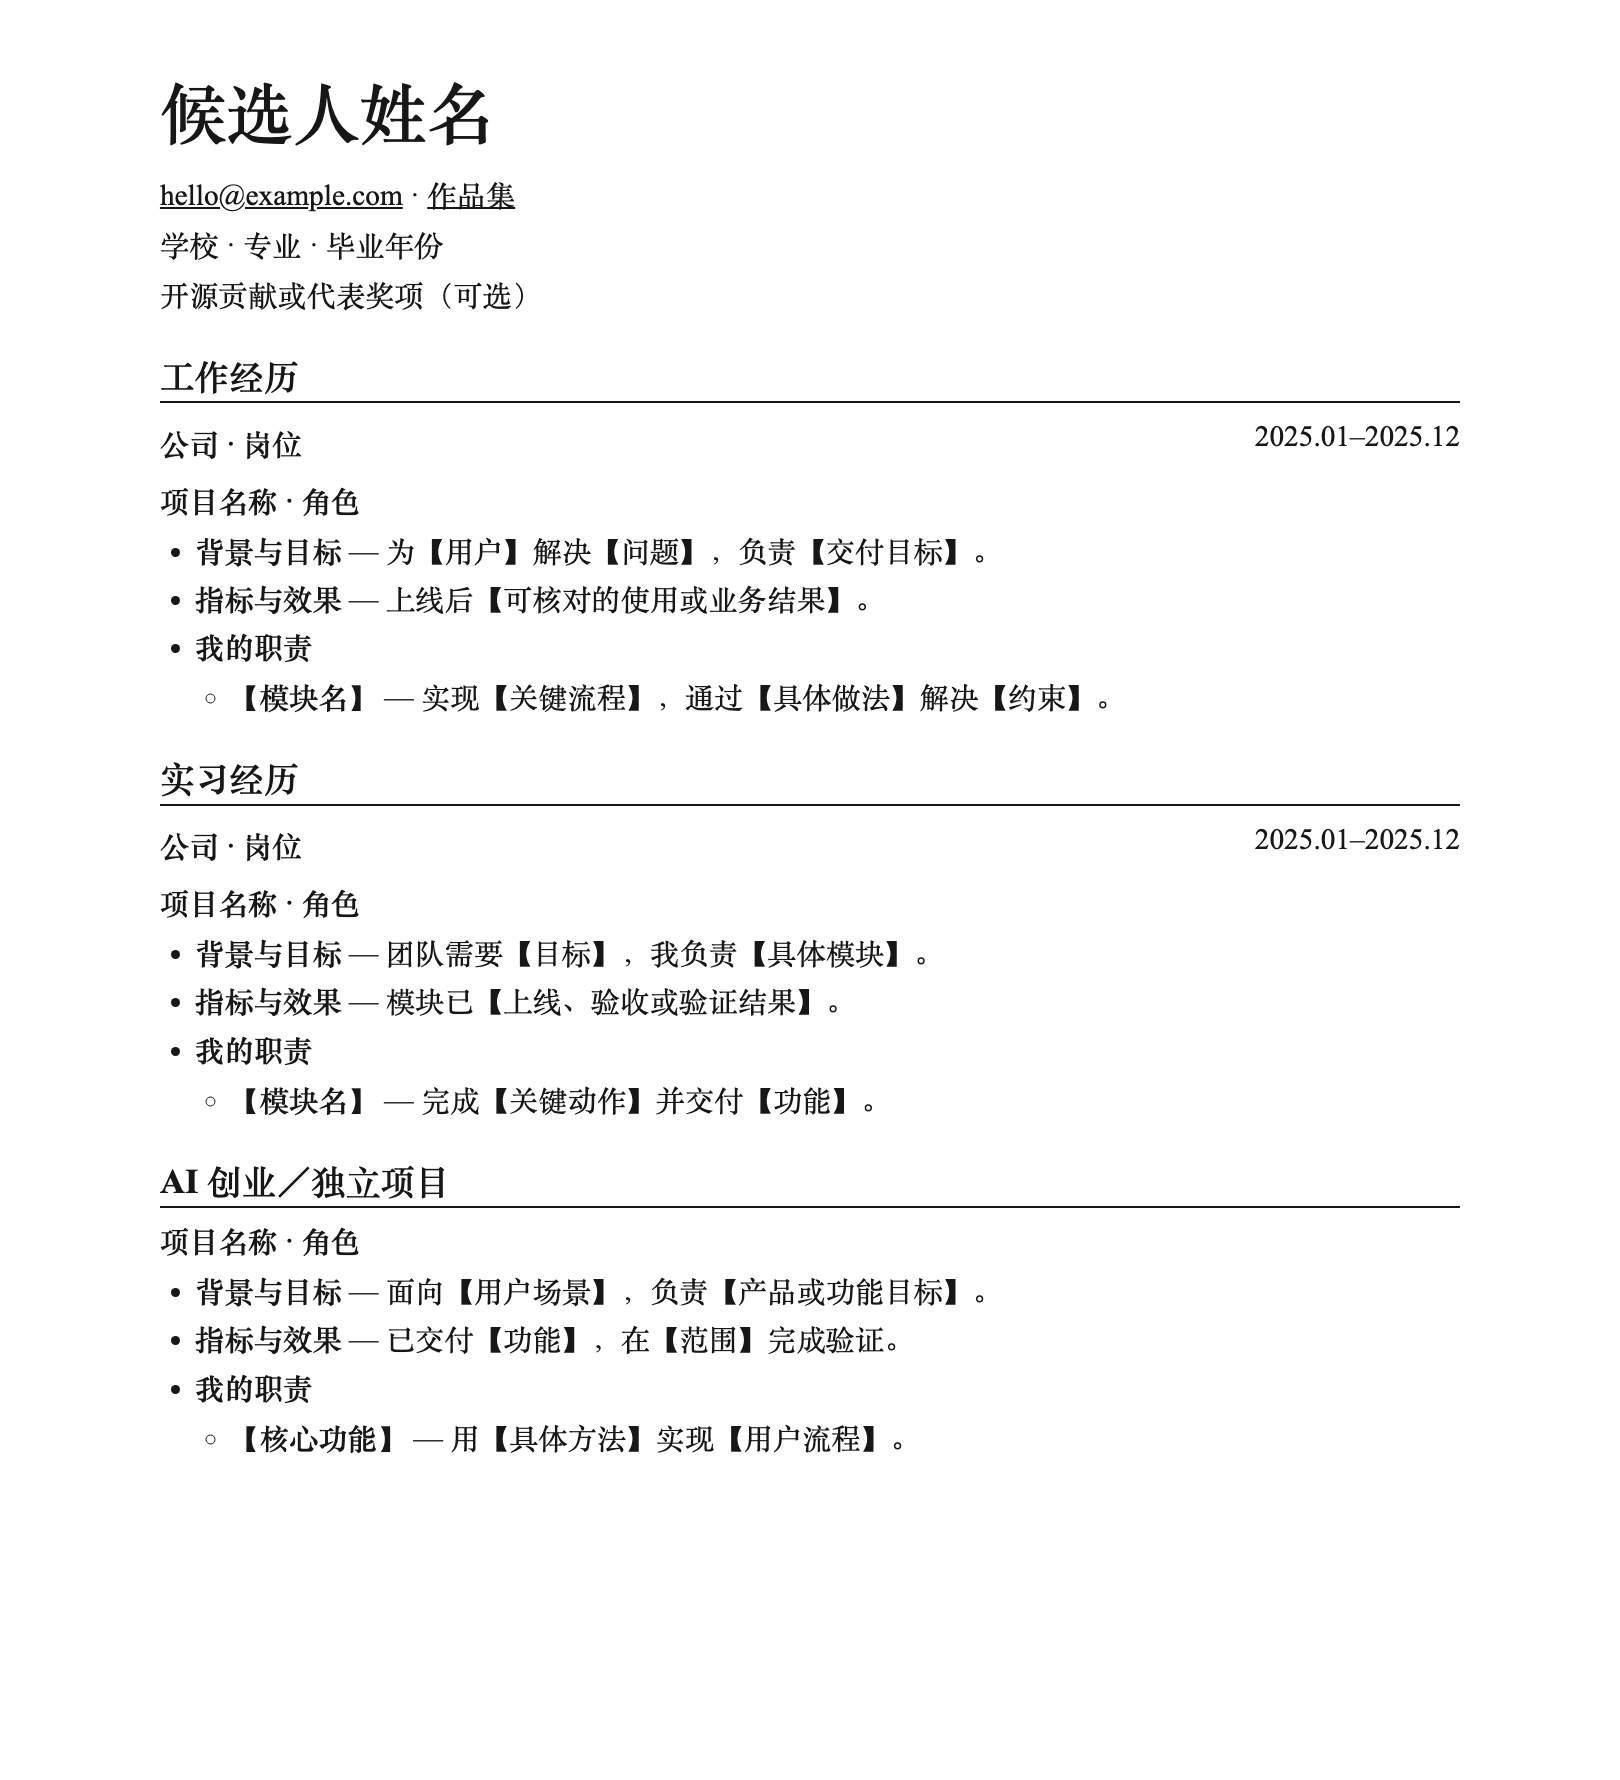
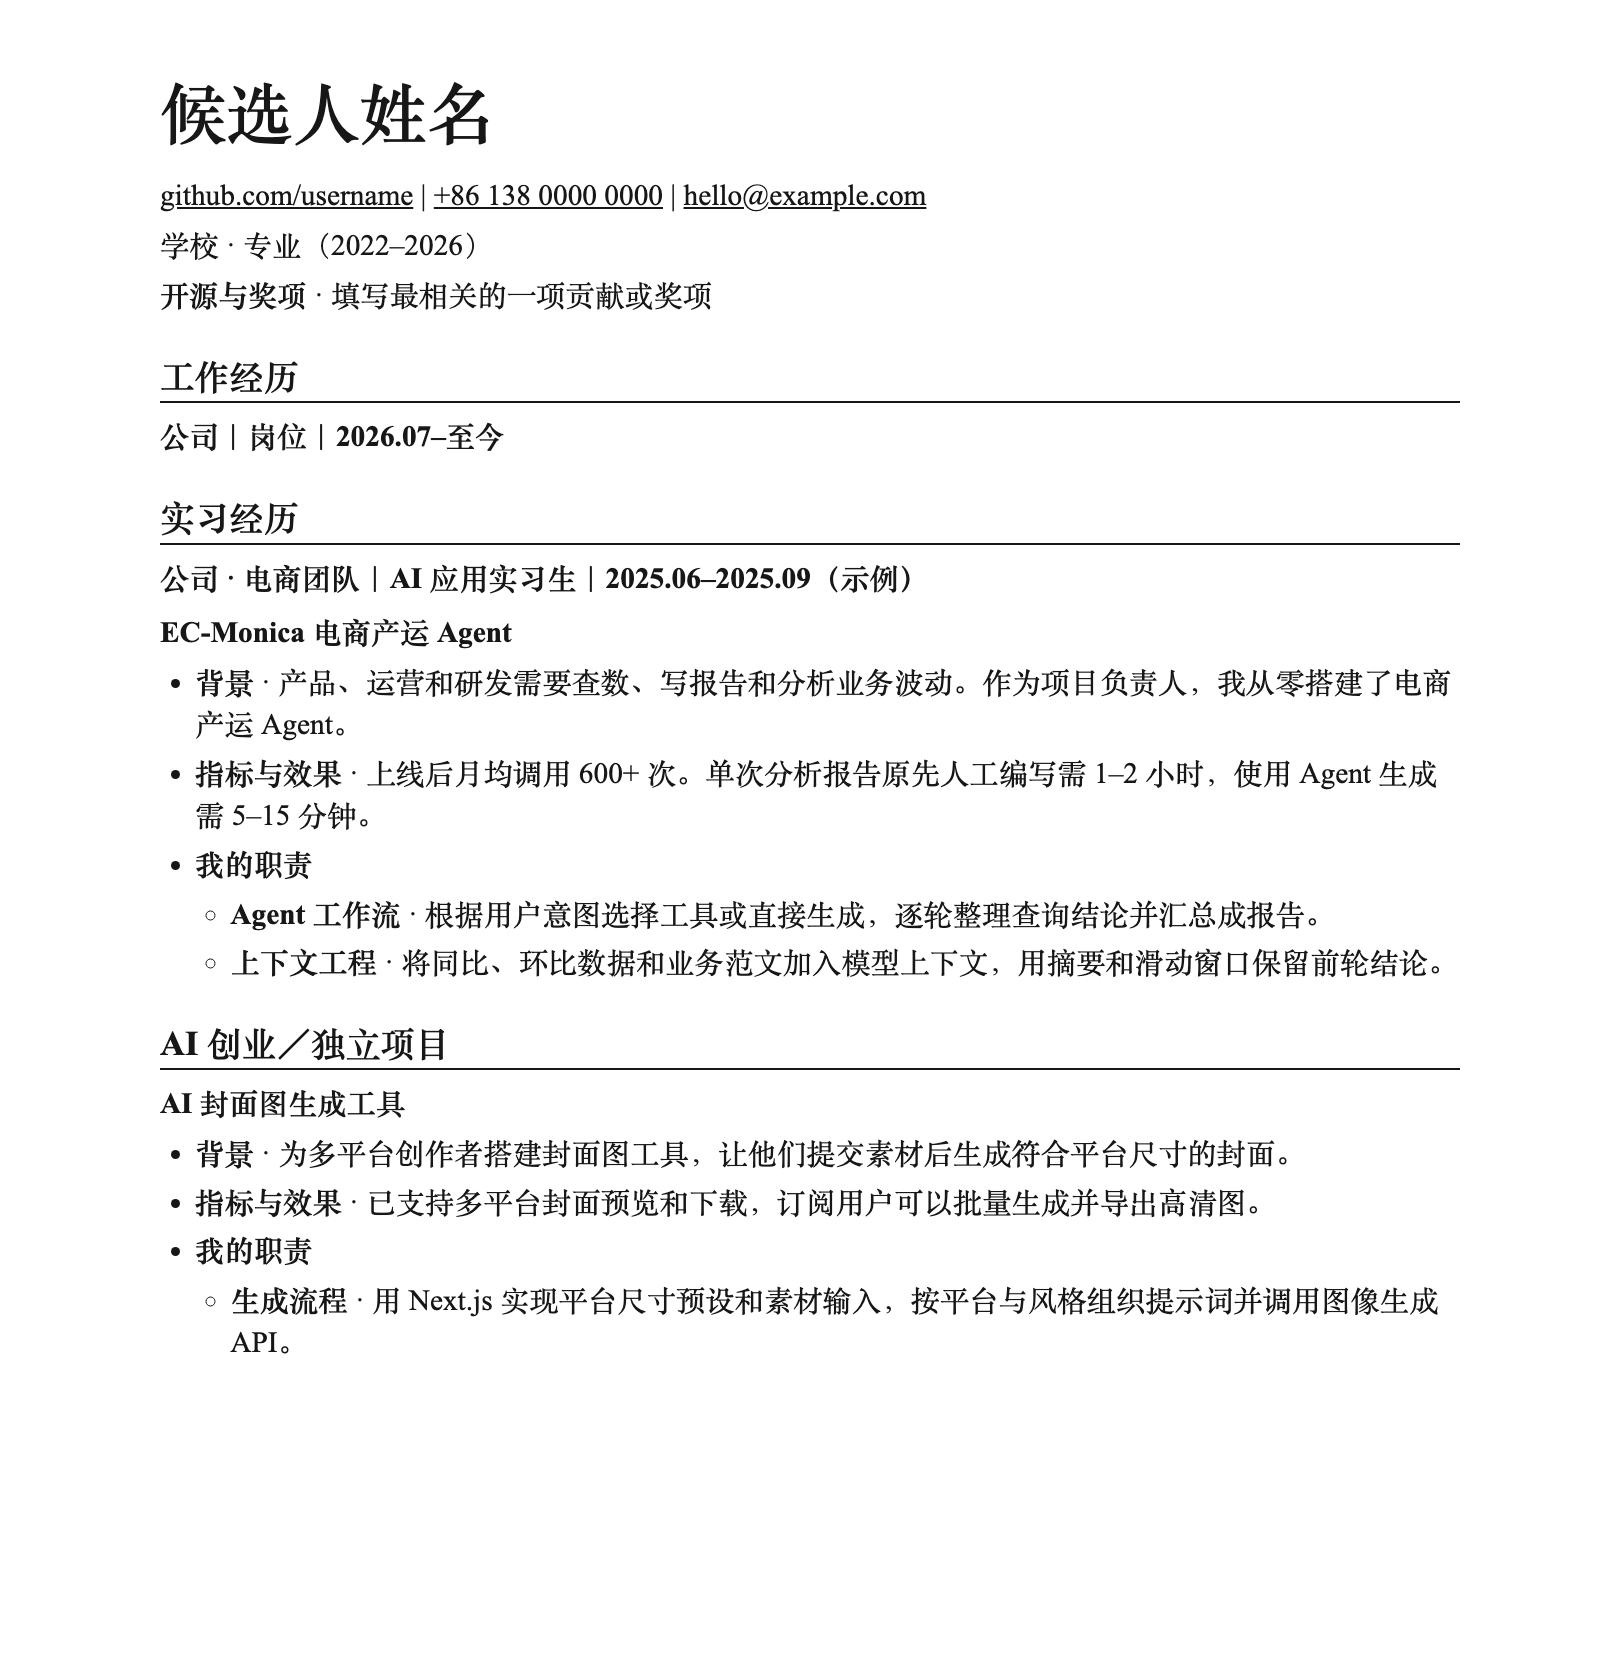
Model HTML resume markup on the original resume hierarchy

Changed region(s): [[0.0926, 0.031, 0.8951, 0.8357], [0.7716, 0.2167, 0.8951, 0.2476]]

diff --git a/README.en.md b/README.en.md
@@ -100,11 +100,14 @@ Copy the code into `resume.html`, open it in a browser, and use the print menu t
     ul { margin: .25em 0; padding-inline-start: 1.2em; }
     li { margin: .2em 0; }
     a { color: inherit; }
-    time { white-space: nowrap; }
-    .entry-heading { display: flex; justify-content: space-between; flex-wrap: wrap; gap: .25em 1em; }
+    .contact { overflow-wrap: anywhere; }
+    .resume-company-heading { margin: .4em 0; }
+    .resume-project { margin: .4em 0 .6em; }
+    .resume-project h4 { margin: .2em 0; font-size: 11pt; }
+    ul ul { list-style-type: circle; }
     @media print {
       body { max-width: none; margin: 0; padding: 0; }
-      h2, h3 { break-after: avoid; }
+      h2, h3, h4 { break-after: avoid; }
       li { break-inside: avoid; }
     }
   </style>
@@ -112,52 +115,51 @@ Copy the code into `resume.html`, open it in a browser, and use the print menu t
 <body>
   <header>
     <h1>Your Name</h1>
-    <p><a href="mailto:hello@example.com">hello@example.com</a> ·
-       <a href="https://example.com">Portfolio</a></p>
-    <p>University · Degree · Graduation year</p>
-    <p>Selected open-source contribution or award</p>
+    <p class="contact"><a href="https://github.com/username">github.com/username</a> |
+      <a href="tel:+12025550101">+1 202 555 0101</a> |
+      <a href="mailto:hello@example.com">hello@example.com</a></p>
+    <p>University · Degree (2022–2026)</p>
+    <p><strong>Open Source &amp; Awards</strong> · Add one relevant contribution or award</p>
   </header>
   <main>
     <section>
       <h2>Work Experience</h2>
-      <div class="entry-heading">
-        <h3>Company · Role</h3>
-        <span><time datetime="2025-01">2025.01</time>–<time datetime="2025-12">2025.12</time></span>
-      </div>
-      <p><strong>Project · Your role</strong></p>
-      <ul>
-        <li><strong>Context and goal</strong> — Addressed [problem] for [users] and owned [deliverable].</li>
-        <li><strong>Impact</strong> — After launch, [verified usage or business outcome].</li>
-        <li><strong>My contributions</strong>
-          <ul><li><strong>[Module]</strong> — Implemented [workflow] using [method] to address [constraint].</li></ul>
-        </li>
-      </ul>
+      <h3 class="resume-company-heading">Company | Role | Jul 2026–Present</h3>
+      <!-- Copy a resume-project block below when adding work projects. -->
     </section>
+
     <section>
       <h2>Internships</h2>
-      <div class="entry-heading">
-        <h3>Company · Role</h3>
-        <span><time datetime="2025-01">2025.01</time>–<time datetime="2025-12">2025.12</time></span>
-      </div>
-      <p><strong>Project · Your role</strong></p>
-      <ul>
-        <li><strong>Context and goal</strong> — The team needed [goal]. I owned [module].</li>
-        <li><strong>Impact</strong> — The module [shipped, passed acceptance, or produced a finding].</li>
-        <li><strong>My contributions</strong>
-          <ul><li><strong>[Module]</strong> — Completed [action] and delivered [feature].</li></ul>
-        </li>
-      </ul>
+      <h3 class="resume-company-heading">Company · E-commerce Team | AI Application Intern | Jun–Sep 2025 (example)</h3>
+      <article class="resume-project">
+        <h4>EC-Monica · E-commerce Operations Agent</h4>
+        <ul>
+          <li><strong>Context</strong> · Product, operations, and engineering teams needed to query data, write reports, and investigate metric changes. I owned the agent from design through launch.</li>
+          <li><strong>Impact</strong> · The agent averaged 600+ calls per month. A report took 1–2 hours to write manually and 5–15 minutes to generate with the agent.</li>
+          <li><strong>My contributions</strong>
+            <ul>
+            <li><strong>Agent workflow</strong> · Routed requests to tools or direct generation and assembled intermediate findings into a report.</li>
+            <li><strong>Context engineering</strong> · Added year-over-year and period-over-period metrics and report examples. Carried findings forward with summaries and a sliding window.</li>
+            </ul>
+          </li>
+        </ul>
+      </article>
     </section>
+
     <section>
       <h2>Independent AI Projects</h2>
-      <h3>Project · Your role</h3>
-      <ul>
-        <li><strong>Context and goal</strong> — Built [product capability] for [users and scenario].</li>
-        <li><strong>Impact</strong> — Delivered [feature] and validated it in [scope].</li>
-        <li><strong>My contributions</strong>
-          <ul><li><strong>[Core feature]</strong> — Implemented [user flow] using [approach].</li></ul>
-        </li>
-      </ul>
+      <article class="resume-project">
+        <h4>AI Thumbnail Generator</h4>
+        <ul>
+          <li><strong>Context</strong> · Built a thumbnail tool for creators who publish across platforms and need different image sizes.</li>
+          <li><strong>Impact</strong> · Shipped preview and download for multiple platform sizes, plus batch generation and high-resolution export for subscribers.</li>
+          <li><strong>My contributions</strong>
+            <ul>
+            <li><strong>Image generation</strong> · Built platform presets and asset inputs in Next.js, then integrated an image generation API with platform and style prompts.</li>
+            </ul>
+          </li>
+        </ul>
+      </article>
     </section>
   </main>
 </body>

diff --git a/README.md b/README.md
@@ -102,11 +102,14 @@ OpenAI API 集成也可以按官方文档把整个目录作为 Skill 使用。[O
     ul { margin: .25em 0; padding-inline-start: 1.2em; }
     li { margin: .2em 0; }
     a { color: inherit; }
-    time { white-space: nowrap; }
-    .entry-heading { display: flex; justify-content: space-between; flex-wrap: wrap; gap: .25em 1em; }
+    .contact { overflow-wrap: anywhere; }
+    .resume-company-heading { margin: .4em 0; }
+    .resume-project { margin: .4em 0 .6em; }
+    .resume-project h4 { margin: .2em 0; font-size: 11pt; }
+    ul ul { list-style-type: circle; }
     @media print {
       body { max-width: none; margin: 0; padding: 0; }
-      h2, h3 { break-after: avoid; }
+      h2, h3, h4 { break-after: avoid; }
       li { break-inside: avoid; }
     }
   </style>
@@ -114,52 +117,51 @@ OpenAI API 集成也可以按官方文档把整个目录作为 Skill 使用。[O
 <body>
   <header>
     <h1>候选人姓名</h1>
-    <p><a href="mailto:hello@example.com">hello@example.com</a> ·
-       <a href="https://example.com">作品集</a></p>
-    <p>学校 · 专业 · 毕业年份</p>
-    <p>开源贡献或代表奖项（可选）</p>
+    <p class="contact"><a href="https://github.com/username">github.com/username</a> |
+      <a href="tel:+8613800000000">+86 138 0000 0000</a> |
+      <a href="mailto:hello@example.com">hello@example.com</a></p>
+    <p>学校 · 专业（2022–2026）</p>
+    <p><strong>开源与奖项</strong> · 填写最相关的一项贡献或奖项</p>
   </header>
   <main>
     <section>
       <h2>工作经历</h2>
-      <div class="entry-heading">
-        <h3>公司 · 岗位</h3>
-        <span><time datetime="2025-01">2025.01</time>–<time datetime="2025-12">2025.12</time></span>
-      </div>
-      <p><strong>项目名称 · 角色</strong></p>
-      <ul>
-        <li><strong>背景与目标</strong> — 为【用户】解决【问题】，负责【交付目标】。</li>
-        <li><strong>指标与效果</strong> — 上线后【可核对的使用或业务结果】。</li>
-        <li><strong>我的职责</strong>
-          <ul><li><strong>【模块名】</strong> — 实现【关键流程】，通过【具体做法】解决【约束】。</li></ul>
-        </li>
-      </ul>
+      <h3 class="resume-company-heading">公司｜岗位｜2026.07–至今</h3>
+      <!-- 有工作项目时，复制下方 resume-project。 -->
     </section>
+
     <section>
       <h2>实习经历</h2>
-      <div class="entry-heading">
-        <h3>公司 · 岗位</h3>
-        <span><time datetime="2025-01">2025.01</time>–<time datetime="2025-12">2025.12</time></span>
-      </div>
-      <p><strong>项目名称 · 角色</strong></p>
-      <ul>
-        <li><strong>背景与目标</strong> — 团队需要【目标】，我负责【具体模块】。</li>
-        <li><strong>指标与效果</strong> — 模块已【上线、验收或验证结果】。</li>
-        <li><strong>我的职责</strong>
-          <ul><li><strong>【模块名】</strong> — 完成【关键动作】并交付【功能】。</li></ul>
-        </li>
-      </ul>
+      <h3 class="resume-company-heading">公司 · 电商团队｜AI 应用实习生｜2025.06–2025.09（示例）</h3>
+      <article class="resume-project">
+        <h4>EC-Monica 电商产运 Agent</h4>
+        <ul>
+          <li><strong>背景</strong> · 产品、运营和研发需要查数、写报告和分析业务波动。作为项目负责人，我从零搭建了电商产运 Agent。</li>
+          <li><strong>指标与效果</strong> · 上线后月均调用 600+ 次。单次分析报告原先人工编写需 1–2 小时，使用 Agent 生成需 5–15 分钟。</li>
+          <li><strong>我的职责</strong>
+            <ul>
+            <li><strong>Agent 工作流</strong> · 根据用户意图选择工具或直接生成，逐轮整理查询结论并汇总成报告。</li>
+            <li><strong>上下文工程</strong> · 将同比、环比数据和业务范文加入模型上下文，用摘要和滑动窗口保留前轮结论。</li>
+            </ul>
+          </li>
+        </ul>
+      </article>
     </section>
+
     <section>
       <h2>AI 创业／独立项目</h2>
-      <h3>项目名称 · 角色</h3>
-      <ul>
-        <li><strong>背景与目标</strong> — 面向【用户场景】，负责【产品或功能目标】。</li>
-        <li><strong>指标与效果</strong> — 已交付【功能】，在【范围】完成验证。</li>
-        <li><strong>我的职责</strong>
-          <ul><li><strong>【核心功能】</strong> — 用【具体方法】实现【用户流程】。</li></ul>
-        </li>
-      </ul>
+      <article class="resume-project">
+        <h4>AI 封面图生成工具</h4>
+        <ul>
+          <li><strong>背景</strong> · 为多平台创作者搭建封面图工具，让他们提交素材后生成符合平台尺寸的封面。</li>
+          <li><strong>指标与效果</strong> · 已支持多平台封面预览和下载，订阅用户可以批量生成并导出高清图。</li>
+          <li><strong>我的职责</strong>
+            <ul>
+            <li><strong>生成流程</strong> · 用 Next.js 实现平台尺寸预设和素材输入，按平台与风格组织提示词并调用图像生成 API。</li>
+            </ul>
+          </li>
+        </ul>
+      </article>
     </section>
   </main>
 </body>
